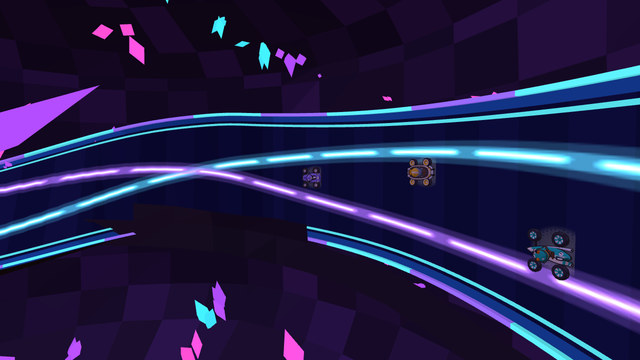
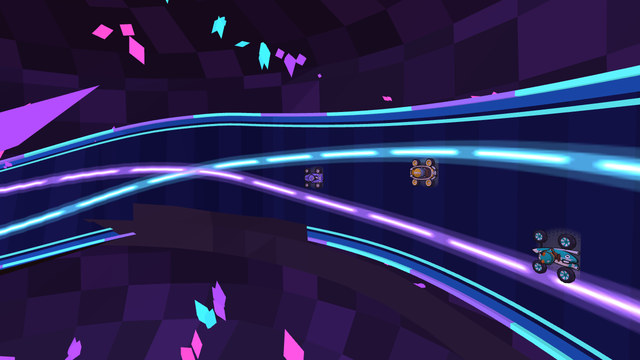
Kristallmine: heller unter Tage, Wetterschacht mit Kristallen und Lutten, Pfeiltafeln an den Schachtausfahrten
- Lesbarkeit unter Tage: Dunst, Himmels- und Bodenlicht im Stollen gut ein Drittel heller (theme.cave, neu
  hemiIntensity – world.ts führt die Stärke des Himmelslichts beim Wechsel mit), Dunst reicht weiter; Fels der
  Kulisse etwas heller. Die Fahrbahn aus Fels bekommt in der Kristallmine gelbe Randlinien und einen helleren
  Randstreifen, die Bande aus Felsbrocken hebt sich ab. Über Tage etwas mehr Mondlicht und helleres Gelände.
- Wetterschacht: leuchtende Kristallgruppen in den Farben der Mine (zwischen den Gängen der Wendel und flach direkt
  über der Bande, höchstens 0,3 m aus der Wand), Grubenlampen alle 10 m, zwei Wetterlutten mit Flanschen und eine
  Fahrt (Leiter) von der Sohle bis unter den Schachtkranz – alles in den vorhandenen Netzen, Durchfahrtshöhe frei.
- Schachtausfahrten unter Tage: Leuchtpfeil-Tafeln mit Lampe am Kurvenaußenrand, schon 16 m vor der Kurve, je 4 m
  eine (im Schacht an der Wand, im Stollen auf einem Pfosten); vor der Weiche bleibt die Seite der Abkürzung frei
  für Signal und Weichensignal.
- Streckenbild neu.

Kulisse: 23k Dreiecke (q=low), 36k (q=high), weiterhin 5–6 Zeichenaufrufe.

Claude-Session: https://claude.ai/code/session_019qXzqtB1PdRYsUEHK9UVYm

diff --git a/kart-src/src/render/life/kristall.ts b/kart-src/src/render/life/kristall.ts
@@ -36,10 +36,10 @@ const TAU = Math.PI * 2;
 
 // --- Farben ---------------------------------------------------------------------
 
-const C_FELS = rgb(0x3b3040);
-const C_FELS_2 = rgb(0x30283a);
-const C_FELS_D = rgb(0x241e2a);
-const C_SOHLE = rgb(0x2c2622);
+const C_FELS = rgb(0x4a3c50);
+const C_FELS_2 = rgb(0x3d3248);
+const C_FELS_D = rgb(0x2e2636);
+const C_SOHLE = rgb(0x3a322c);
 const C_KALK = rgb(0x8f8a84);
 const C_HOLZ = rgb(0x6a4a2c);
 const C_HOLZ_D = rgb(0x4a321e);
@@ -51,6 +51,9 @@ const C_ROT = rgb(0x9a2a24);
 const C_DACH = rgb(0x2a2630);
 const C_BETON = rgb(0x55525a);
 const C_HALDE = rgb(0x2a2629);
+const C_LUTTE = rgb(0xc8962e);
+const C_FAHRT = rgb(0x8a92a6);
+const PFEIL = rgb(0xffc23a);
 const C_HALDE_2 = rgb(0x332e30);
 const C_WASSER = rgb(0x0f4f5a);
 const C_WASSER_H = rgb(0x2a8a90);
@@ -383,20 +386,20 @@ export function buildKristallLife(world: World): Life {
     void ev;
   };
   /** Kristallgruppe an der Wand: um (x, y, z), nach (nx, ny, nz) gerichtet. */
-  const gruppe = (x: number, y: number, z: number, nx: number, ny: number, nz: number, size: number, col: RGB, n = 4): void => {
+  const gruppe = (x: number, y: number, z: number, nx: number, ny: number, nz: number, size: number, col: RGB, n = 4, r = rnd): void => {
     for (let k = 0; k < n; k++) {
-      const a = rnd() * TAU;
+      const a = r() * TAU;
       const sp = 0.55;
-      const len = size * (0.55 + rnd() * 0.75);
+      const len = size * (0.55 + r() * 0.75);
       kristall(
-        x + (rnd() - 0.5) * size * 0.6,
-        y + (rnd() - 0.5) * size * 0.4,
-        z + (rnd() - 0.5) * size * 0.6,
+        x + (r() - 0.5) * size * 0.6,
+        y + (r() - 0.5) * size * 0.4,
+        z + (r() - 0.5) * size * 0.6,
         nx + Math.cos(a) * sp,
         ny + 0.45 + Math.sin(a) * sp * 0.5,
         nz + Math.sin(a) * sp,
         len,
-        len * (0.16 + rnd() * 0.08),
+        len * (0.16 + r() * 0.08),
         k === 0 ? shade(col, 1.15) : col,
       );
     }
@@ -653,6 +656,208 @@ export function buildKristallLife(world: World): Life {
         const z = s.z + Math.sin(a) * (s.r - 0.3);
         if (inBau(x, y, z, -1, -1)) continue;
         glow.box(x, y, z, 0.5, 0.5, 0.5, LAMPE);
+      }
+    }
+  }
+
+  // --- Freiraum der Fahrbahnen (für den Wandschmuck im Wetterschacht und die Pfeiltafeln) -----------------------
+  const roadGrid = new Map<number, number[]>();
+  for (let i = 0; i < t.total; i++) {
+    const k = key(Math.floor(t.px[i] / CELL), Math.floor(t.pz[i] / CELL));
+    let l = roadGrid.get(k);
+    if (!l) roadGrid.set(k, (l = []));
+    l.push(i);
+  }
+  /**
+   * Stört p keine Fahrbahn? Jede, die waagerecht näher liegt als ihre Bande plus pad, muss mindestens over Meter unter p
+   * liegen (Durchfahrtshöhe) oder mindestens under Meter über p (dann hängt p unter ihrem Deck).
+   */
+  const clearOfRoads = (x: number, y: number, z: number, pad: number, over: number, under: number): boolean => {
+    const gx = Math.floor(x / CELL);
+    const gz = Math.floor(z / CELL);
+    for (let dx = -1; dx <= 1; dx++) {
+      for (let dz = -1; dz <= 1; dz++) {
+        const l = roadGrid.get(key(gx + dx, gz + dz));
+        if (!l) continue;
+        for (const j of l) {
+          const ox = x - t.px[j];
+          const oz = z - t.pz[j];
+          if (ox * ox + oz * oz > (t.wh[j] + pad) ** 2) continue;
+          const lat = Math.max(-t.wh[j], Math.min(t.wh[j], ox * rightX(t, j) + oz * rightZ(t, j)));
+          const up = y - (t.py[j] + lat * t.bank[j]);
+          if (up < over && up > -under) return false;
+        }
+      }
+    }
+    return true;
+  };
+
+  // --- Wetterschacht: Kristalle, Grubenlampen, Wetterlutten und eine Fahrt (Leiter) an der Wand ------------------
+  // (Alles zwischen den Gängen der Wendel: Über der Fahrbahn bleibt die Durchfahrtshöhe frei, unter ihrem Deck Luft.)
+  {
+    const s = shafts.find((q) => q.x === WETTERSCHACHT.x && q.z === WETTERSCHACHT.z);
+    if (s) {
+      const rw = seeded(2209);
+      const at = (a: number, r: number): [number, number] => [s.x + Math.cos(a) * r, s.z + Math.sin(a) * r];
+      // Leuchtende Kristallgruppen in den Farben der Mine (violett, türkis, pink, selten grün)
+      const farben = [KRISTALL[0], KRISTALL[1], KRISTALL[2], KRISTALL[0], KRISTALL[1], KRISTALL[3]];
+      const NK = 36;
+      const dicht = detail >= 2 ? 0.45 : detail === 1 ? 0.34 : 0.24;
+      for (let k = 0; k < NK; k++) {
+        for (let y = s.floor + 2.5; y < -2; y += 3.4) {
+          const a = ((k + rw() * 0.6) / NK) * TAU;
+          const yy = y + rw() * 1.5;
+          const wahl = rw();
+          const c = farben[Math.floor(rw() * farben.length)];
+          const size = 0.8 + rw() * 0.7;
+          const n = 3 + Math.floor(rw() * 2);
+          if (wahl > dicht) continue;
+          const [x, z] = at(a, s.r - 0.2);
+          if (inBau(x, yy, z, -1, -0.5) || !clearOfRoads(x, yy, z, 2, 5.2, 3)) continue;
+          gruppe(x, yy, z, -Math.cos(a), 0, -Math.sin(a), size, c, n, rw);
+        }
+      }
+      // Direkt über der Bande, im Blick des Fahrers: flache Kristallgruppen, die steil an der Wand hinaufwachsen (sie ragen
+      // höchstens 0,3 m aus der Wand – nicht über die Fahrbahn), je 5 m eine, versetzt zu den Lampen.
+      for (let i = 5; i < t.n; i += 10) {
+        for (const off of [0, 5]) {
+          const j = i + off;
+          if (j >= t.n) continue;
+          const d = Math.hypot(t.px[j] - s.x, t.pz[j] - s.z);
+          if (Math.abs(d - WETTERSCHACHT.r) > 2 || t.py[j] < s.floor || t.py[j] > -1.5) continue;
+          const a0 = Math.atan2(t.pz[j] - s.z, t.px[j] - s.x);
+          const out = rightX(t, j) * Math.cos(a0) + rightZ(t, j) * Math.sin(a0) > 0 ? 1 : -1;
+          const yEdge = t.py[j] + out * t.wh[j] * t.bank[j];
+          const c = farben[Math.floor(rw() * farben.length)];
+          const n = 3 + Math.floor(rw() * 2);
+          const yy = yEdge + 1.2 + rw() * 1.3;
+          for (let m = 0; m < n; m++) {
+            const a = a0 + ((rw() - 0.5) * 2.2) / s.r;
+            const [x, z] = at(a, s.r - 0.1);
+            const y = yy + (rw() - 0.5) * 0.6;
+            const len = 0.8 + rw() * 0.8;
+            const tilt = (rw() - 0.5) * 0.7;
+            if (inBau(x, y, z, -1, -0.5)) continue;
+            kristall(x, y, z, -Math.cos(a) * 0.22 - Math.sin(a) * tilt, 1, -Math.sin(a) * 0.22 + Math.cos(a) * tilt, len, len * 0.22, m === 0 ? shade(c, 1.15) : c);
+          }
+        }
+      }
+      // Grubenlampen an der Wand, alle 10 m entlang der Wendel, gut 3 m über dem äußeren Rand der Fahrbahn
+      for (let i = 0; i < t.n; i += 10) {
+        const d = Math.hypot(t.px[i] - s.x, t.pz[i] - s.z);
+        if (Math.abs(d - WETTERSCHACHT.r) > 2 || t.py[i] < s.floor || t.py[i] > -1.5) continue;
+        const a = Math.atan2(t.pz[i] - s.z, t.px[i] - s.x);
+        const out = rightX(t, i) * Math.cos(a) + rightZ(t, i) * Math.sin(a) > 0 ? 1 : -1;
+        const y = t.py[i] + out * t.wh[i] * t.bank[i] + 3.3;
+        const [x, z] = at(a, s.r - 0.4);
+        if (inBau(x, y, z, -1, -0.5)) continue;
+        glow.box(x, y, z, 0.42, 0.5, 0.42, LAMPE, -a);
+        const [hx, hz] = at(a, s.r - 0.25);
+        holz.box(hx, y + 0.34, hz, 0.7, 0.14, 0.5, C_STAHL_D, -a);
+      }
+      // Wetterlutten: zwei dicke Rohre senkrecht an der Wand – sie bringen frische Wetter hinunter –, mit Flanschen;
+      // neben der ersten führt eine Fahrt (Leiter) von der Sohle bis unter den Schachtkranz.
+      const lutte = new THREE.CylinderGeometry(0.45, 0.45, 2.5, detail >= 1 ? 10 : 8, 1, true);
+      const flansch = new THREE.CylinderGeometry(0.53, 0.53, 0.2, detail >= 1 ? 10 : 8, 1, false);
+      disposables.push(lutte, flansch);
+      const one = new THREE.Vector3(1, 1, 1);
+      const noRot = new THREE.Quaternion();
+      for (const a of [0.95, 2.35]) {
+        const [x, z] = at(a, s.r - 0.3);
+        for (let y = s.floor + 1.25; y < -1.2; y += 2.5) {
+          if (inBau(x, y, z, -1, -0.8)) continue;
+          fels.add(lutte, C_LUTTE, m4.compose(vv.set(x, y, z), noRot, one));
+          fels.add(flansch, C_STAHL_D, m4.compose(vv.set(x, y + 1.25, z), noRot, one));
+        }
+      }
+      {
+        const a = 0.95 + 1.9 / s.r;
+        const step = detail >= 1 ? 0.45 : 0.6;
+        for (const side of [-0.28, 0.28]) {
+          const aa = a + side / s.r;
+          const [x, z] = at(aa, s.r - 0.3);
+          for (let y = s.floor + 1.25; y < -1.6; y += 2.5) {
+            if (inBau(x, y, z, -1, -0.8)) continue;
+            holz.box(x, y, z, 0.08, 2.5, 0.08, C_FAHRT, -aa);
+          }
+        }
+        const [x, z] = at(a, s.r - 0.3);
+        for (let y = s.floor + 0.4; y < -1.6; y += step) {
+          if (inBau(x, y, z, -1, -0.8)) continue;
+          holz.box(x, y, z, 0.06, 0.06, 0.56, C_FAHRT, -a);
+        }
+      }
+    }
+  }
+
+  // --- Kurven an den Schachtausfahrten früh ankündigen: Leuchtpfeil-Tafeln mit Lampe am Außenrand der Kurve ---------
+  // (Wer unter Tage aus dem Schacht in den Stollen fährt – oder aus dem Stollen in den Schacht –, sieht die Richtung, bevor
+  // die Kurve beginnt: Die Tafeln stehen schon 16 m vorher, alle 4 m eine, hoch über der Bande – im Schacht an der Wand,
+  // im Stollen auf einem Pfosten. Die gewöhnlichen Richtungstafeln der Strecke (scenery.ts) stehen tiefer.)
+  {
+    const zonen: [number, number][] = [];
+    for (const s of shafts) {
+      let inside = Math.hypot(t.px[0] - s.x, t.pz[0] - s.z) < s.r;
+      for (let i = 1; i < t.n; i++) {
+        const ins = Math.hypot(t.px[i] - s.x, t.pz[i] - s.z) < s.r;
+        if (ins !== inside && t.py[i] < UNTER) zonen.push([i - 40, i + 50]);
+        inside = ins;
+      }
+    }
+    const inSchacht = (x: number, z: number): (typeof shafts)[number] | null => {
+      for (const s of shafts) if (Math.hypot(x - s.x, z - s.z) < s.r) return s;
+      return null;
+    };
+    for (const [from, to] of zonen) {
+      for (let i0 = from; i0 < to; i0 += 4) {
+        const i = ((i0 % t.n) + t.n) % t.n;
+        // die stärkste Krümmung der nächsten 16 m (mit Vorzeichen)
+        let k = 0;
+        for (let d = 0; d <= 16; d += 2) {
+          const j = (i + d) % t.n;
+          if (Math.abs(t.curv[j]) > Math.abs(k)) k = t.curv[j];
+        }
+        if (Math.abs(k) < 1 / 40) continue;
+        const sgn = k > 0 ? -1 : 1;
+        // (Vor einer Gabelung bleibt deren Seite frei: Dort stehen das Signal und das Weichensignal der Abkürzung.)
+        if (t.branches.some((b) => b.side === sgn && i >= b.from - 30 && i <= b.from + 4)) continue;
+        const rx = rightX(t, i);
+        const rz = rightZ(t, i);
+        let lat = sgn * (t.wh[i] + 0.9);
+        let wand = false;
+        const q = bau[i];
+        const s0 = inSchacht(t.px[i] + rx * lat, t.pz[i] + rz * lat);
+        if (s0) {
+          // im Schacht: an die Wand
+          while (Math.hypot(t.px[i] + rx * lat - s0.x, t.pz[i] + rz * lat - s0.z) < s0.r - 0.3 && Math.abs(lat) < t.wh[i] + 6) lat += sgn * 0.1;
+          wand = true;
+        } else if (q && Math.abs(lat) > q.w - 0.3) {
+          if (q.w - 0.3 < t.wh[i] + 0.5) continue;
+          lat = sgn * (q.w - 0.3);
+        }
+        const x = t.px[i] + rx * lat;
+        const z = t.pz[i] + rz * lat;
+        const yEdge = t.py[i] + sgn * t.wh[i] * t.bank[i];
+        const yb = yEdge + 3.1;
+        if (!clearOfRoads(x, yEdge + 0.3, z, 0.4, 4.5, 2) || !clearOfRoads(x, yb + 1, z, 0.4, 4.5, 2)) continue;
+        if (q && yb + 1 > t.py[i] + q.h * (1 - 0.32 * (lat / q.w) ** 2) - 0.2) continue;
+        const rot = Math.atan2(t.tx[i], t.tz[i]);
+        // Tafel (dunkel), davor drei leuchtende Winkel in Richtung der Kurve, darüber eine Lampe
+        const bx = x - t.tx[i] * 0.05;
+        const bz = z - t.tz[i] * 0.05;
+        holz.box(x, yb, z, 2.4, 1.05, 0.1, C_STAHL_D, rot);
+        if (!wand) holz.box(x + t.tx[i] * 0.12, (yEdge - 0.4 + yb) / 2, z + t.tz[i] * 0.12, 0.16, yb - yEdge + 0.4, 0.16, C_STAHL_D, rot);
+        const dir = k > 0 ? 1 : -1;
+        const ref: [number, number, number] = [bx - t.tx[i] * 20, yb, bz - t.tz[i] * 20];
+        const P = (u: number, v: number): V3 => [bx + rx * u, yb + v, bz + rz * u];
+        for (const c of [-0.72, 0, 0.72]) {
+          const ub = c - dir * 0.26;
+          const ut = c + dir * 0.26;
+          const w = dir * 0.22;
+          quadTo(glow, P(ub, 0.36), P(ub + w, 0.36), P(ut + w, 0), P(ut, 0), ref[0], ref[1], ref[2], PFEIL);
+          quadTo(glow, P(ut, 0), P(ut + w, 0), P(ub + w, -0.36), P(ub, -0.36), ref[0], ref[1], ref[2], PFEIL);
+        }
+        glow.box(x, yb + 0.68, z, 0.5, 0.22, 0.26, LAMPE, rot);
       }
     }
   }

diff --git a/kart-src/src/render/world.ts b/kart-src/src/render/world.ts
@@ -445,6 +445,9 @@ export class World {
         case 'grass':
           return { a: col(0x86c45c), b: col(0x77b650), c: col(0x6aa646), band: 4, plain: false, lines: true, line: col(0xf7f4e8), kerbs: false, shoulder: null, detail: 'none', barrier: 'fence', wallA: wood[0], wallB: wood[1] };
         case 'rock':
+          // (Kristallmine: Unter Tage zeigen gelbe Randlinien – wie die Sicherheitsfarbe im Bergwerk –, wo die Fahrbahn endet;
+          // der Fels der Fahrbahn ist etwas heller als der der Wände.)
+          if (t.def.theme === 'kristall') return { a: rgb(0x5a4c60), b: rgb(0x524558), c: rgb(0xa898b8), band: 3, plain: false, lines: true, line: rgb(0xffc23a), kerbs: false, shoulder: rgb(0x6a5868), detail: 'cracks', barrier: 'rock', wallA: rgb(0x86707e), wallB: rgb(0x6c5a6c) };
           return { a: col(0x57495a), b: col(0x4b3f50), c: crack, band: 3, plain: false, lines: false, kerbs: false, shoulder: col(0x3c3242), detail: 'cracks', barrier: 'rock', wallA: col(0x6b5565), wallB: col(0x54445a) };
         case 'metal':
           return { a: col(0x8792a0), b: col(0x77828f), c: col(0x4d5560), band: 3, plain: false, lines: true, line: col(0xffd23f), kerbs: false, shoulder: col(0x5c6570), detail: 'plates', barrier: 'rail', wallA: col(0x3a4049), wallB: col(0xc9d2dc) };
@@ -1824,6 +1827,7 @@ export class World {
         const near = cv ? th.fogNear + (cv.fogNear - th.fogNear) * c : th.fogNear;
         const far = cv ? th.fogFar + (cv.fogFar - th.fogFar) * c : th.fogFar;
         const sunI = cv ? th.sunIntensity + (cv.sunIntensity - th.sunIntensity) * c : th.sunIntensity;
+        this.hemi.intensity = cv ? th.hemiIntensity + ((cv.hemiIntensity ?? th.hemiIntensity) - th.hemiIntensity) * c : th.hemiIntensity;
         this.fog.color.copy(this.depthFrom.fog);
         this.sun.color.copy(this.depthFrom.sun);
         this.hemi.color.copy(this.depthFrom.hemiSky);

diff --git a/kart-src/src/render/themes.ts b/kart-src/src/render/themes.ts
@@ -83,6 +83,8 @@ export interface Theme {
     sunIntensity: number;
     hemiSky: number;
     hemiGround: number;
+    /** Stärke des Himmelslichts unter Tage (sonst wie über Tage). */
+    hemiIntensity?: number;
   };
 }
 
@@ -98,10 +100,10 @@ export const THEMES: Record<ThemeId, Theme> = {
     fogFar: 380,
     sunDir: [-0.4, 0.75, 0.45],
     sunColor: 0xb4c2ff,
-    sunIntensity: 1.35,
+    sunIntensity: 1.45,
     hemiSky: 0x7c84d8,
     hemiGround: 0x6a3f2c,
-    hemiIntensity: 1.35,
+    hemiIntensity: 1.5,
     disc: 0xf2f0e0,
     discSize: 22,
     clouds: 0x262a52,
@@ -119,7 +121,7 @@ export const THEMES: Record<ThemeId, Theme> = {
     deck: 0x5a4a3e,
     deckDark: 0x30261f,
     pillar: 0x4a3c32,
-    ground: [0x2c2c3c, 0x34323f, 0x3a2f3a, 0x4a4250],
+    ground: [0x383850, 0x423f50, 0x4a3c4a, 0x5c5264],
     liquidY: null,
     liquid: [0x0c3a4a, 0x1a6a78, 0x7fe8e0],
     liquidGlow: false,
@@ -135,15 +137,18 @@ export const THEMES: Record<ThemeId, Theme> = {
       hemiGround: 0x1f4a50,
       surface: [0x1a6a78, 0x3fb8c0, 0xbffcf4],
     },
+    // (Unter Tage nicht zu dunkel: Auch auf einem kleinen Bildschirm müssen Fahrbahnränder und Wände klar zu lesen sein –
+    // Dunst, Himmels- und Bodenlicht gut ein Drittel heller als die Nacht über Tage es nahelegte.)
     cave: {
       y: -6,
-      fog: 0x1c1420,
-      fogNear: 26,
-      fogFar: 170,
-      sunColor: 0xd8b8ff,
-      sunIntensity: 0.95,
-      hemiSky: 0x9a7cc8,
-      hemiGround: 0x5a3a2a,
+      fog: 0x2a1f30,
+      fogNear: 34,
+      fogFar: 200,
+      sunColor: 0xe4c8ff,
+      sunIntensity: 1.25,
+      hemiSky: 0xc8a2ff,
+      hemiGround: 0x7a4e38,
+      hemiIntensity: 1.65,
     },
   },
   // Neonhochbahn: Zukunftsstadt bei Nacht. Tiefer, fast schwarzer Himmel mit violettem Dunst am Horizont (der Widerschein
